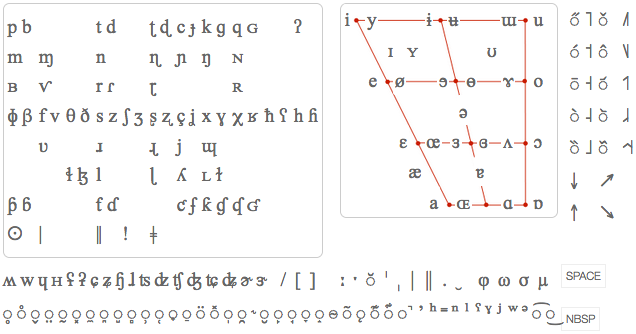
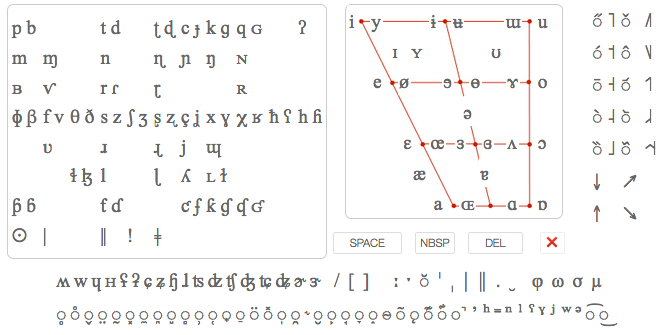
ipa, restyle space etc; add url generator; change example text; add del touches; centre selection area

diff --git a/ipa/index.html b/ipa/index.html
@@ -273,6 +273,14 @@
          <span class="c" style="position:absolute; left: 238px;" title="Low back vowel rounded">ɒ</span>
         </div>
       </div>
+      
+      <div style="margin-top:10px; border: 0;">
+      <span class="touch" title="Space" style="padding: 5px 20px;" dir="auto" onClick="add(' ');">SPACE</span>
+<span class="touch" title="No-break space" style="padding: 5px;" dir="auto" onClick="add('\u00A0');">NBSP</span>
+<span class="touch" title="Delete 1 character at end" style="padding: 5px 20px;" dir="auto" onClick="del();">DEL</span>
+<span class="touch delAll" title="Delete All" style="margin-right: 20px; margin-left:10px;" dir="auto" onClick="deleteAll();">❌</span>
+</div>
+      
         <!--img title="25CC: DOTTED CIRCLE" src="images/25CC.png" alt="◌" id="dottedcircle" /--></td>
       <td><!-- TONES -->
         <table id="tones">
@@ -327,8 +335,7 @@
     <tr>
       <td><div id="other2"> <span class="c" title="Voiceless labial velar plosive">&#x028D;</span> <span class="c" title="Voiced labial velar approximant">&#x0077;</span> <span class="c" title="Voiced labial palatal approximant">&#x0265;</span> <span class="c" title="Voiceless epiglottal fricative">&#x029C;</span> <span class="c" title="Voiced epiglottal fricative">&#x02A2;</span> <span class="c" title="Epiglottal plosive">&#x02A1;</span> <span class="c" title="Voiceless alveolo-palatal fricative">&#x0255;</span> <span class="c" title="Voiced alveolo-palatal fricative">&#x0291;</span> <span class="c" title="Simultaneous unvoiced postalveolar &amp; velar fricative">&#x0267;</span> <span class="c" title="Voiced alveolar lateral flap">&#x027A;</span> <span class="c" title="Voiceless dental affricate">&#x02A6;</span> <span class="c" title="Voiced dental affricate">&#x02A3;</span> <span class="c" title="Voiceless postalveolar affricate">&#x02A7;</span> <span class="c" title="Voiced postalveolar affricate">&#x02A4;</span> <span class="c" title="Voiceless alveolo-palatal affricate">&#x02A8;</span> <span class="c" title="Voiced alveolo-palatal affricate">&#x02A5;</span> <span class="c" title="Rhoticised schwa">&#x025A;</span> <span class="c" title="Rhoticised lower mid central vowel">&#x025D;</span></div></td>
       <td  class="bottomrighttop"><div><span class="c" style="padding-left:10px;" title="">&#x002F;</span> <span class="c" title="">&#x005B;</span> <span style="margin-right:20px;" class="c" title="">&#x005D;</span>  <span class="c" title="Long">&#x02D0;</span> <span class="c" title="Half-long">&#x02D1;</span> <span class="c" title="Extra short diacritic">&#x0306;</span> <span class="c" title="Primary stress">&#x02C8;</span> <span class="c" title="Secondary stress">&#x02CC;</span> <span class="c" title="Minor (foot) group">&#x007C;</span> <span class="c" title="Major (intonation) group">&#x2016;</span>  <span class="c" title="Syllable break">&#x002E;</span> <span class="c" title="Linking (absence of a break)">&#x203F;</span> <span class="c"  style="margin-left: 10px" title="Prosodic phrase">&#x03C6;</span> <span class="c" title="Prosodic word">&#x03C9;</span> <span class="c" title="Syllable">&#x03C3;</span> <span class="c" title="Mora">&#x03BC;</span></div></td>
-      <td rowspan="2" style="width: 6em;"><span onclick="add(' ');" class="spaceEtc">SPACE</span><br/><br/><span onclick="add('\u00A0');" class="spaceEtc">NBSP</span></td>
-    </tr>
+      </tr>
     <tr>
       <td colspan="2"><div> <span class="c" title="Voiceless diacritic">&#x0325;</span> <span class="c" title="Voiceless diacritic">&#x030A;</span> <span class="c" title="Voiced diacritic">&#x032C;</span> <span class="c" title="Breathy voiced diacritic">&#x0324;</span> <span class="c" title="Creaky voiced diacritic">&#x0330;</span> <span class="c" title="Frictionalised diacritic">&#x0353;</span> <span class="c" title="Linguolabial diacritic">&#x033C;</span> <span class="c" title="Dental diacritic">&#x032A;</span> <span class="c" title="Apical diacritic">&#x033A;</span> <span class="c" title="Laminal diacritic">&#x033B;</span> <span class="c" title="More rounded diacritic">&#x0339;</span> <span class="c" title="Less rounded diacritic">&#x031C;</span> <span class="c" title="Advanced diacritic">&#x031F;</span> <span class="c" title="Retracted diacritic">&#x0320;</span> <span class="c" title="Centralised diacritic">&#x0308;</span> <span class="c" title="Mid-centralised diacritic">&#x033D;</span> <span class="c" title="Syllabic diacritic">&#x0329;</span> <span class="c" title="Non-syllabic diacritic">&#x032F;</span> <span class="c" style="padding:0 3px;" title="Rhoticity diacritic">&#x02DE;</span> <span class="c" title="Derhoticised diacritic">&#x032E;</span> <span class="c" title="Retracted tongue root diacritic">&#x0319;</span> <span class="c" title="Advanced tongue root diacritic">&#x0318;</span> <span class="c" title="Lowered diacritic">&#x031E;</span> <span class="c" title="Raised diacritic">&#x031D;</span> <span class="c" title="Velarised or pharyngealised diacritic">&#x0334;</span> <span class="c" title="Nasalised diacritic">&#x0303;</span>  <span class="c" title="Alternate nasalised diacritic">&#x0328;</span> <span class="c" title="Denasalised diacritic">&#x034A;</span> <span class="c" title="Nasal emission">&#x034B;</span> <span class="c" title="No audible release diacritic">&#x031A;</span> <span class="c" style="padding:0 4px;" title="Ejective diacritic">&#x02BC;</span> <span class="c" title="Aspirated diacritic">&#x02B0;</span> <span class="c" title="Unaspirated diacritic">&#x02ED;</span> <span class="c" title="Nasal release">&#x207F;</span> <span class="c" style="padding:0 3px;" title="Lateral release">&#x02E1;</span> <span class="c" title="Pharyngealised diacritic">&#x02E4;</span> <span class="c" title="Velarised diacritic">&#x02E0;</span> <span class="c" style="padding:0 3px;" title="Palatalised diacritic">&#x02B2;</span> <span class="c" title="Labialised diacritic">&#x02B7;</span>  <span class="c" title="">&#x1D4A;</span> <span class="c" title="Upper ligature tie">&#x0361;</span> <span class="c" title="Lower ligature tie">&#x035C;</span></div></td>
     </tr>

diff --git a/ipa/help/index.html b/ipa/help/index.html
@@ -85,12 +85,21 @@ When working on an iPad or similar device, you should turn off<code class="kw" t
 
 
 
+<section id="buttons">
+  <h3 href="#buttons">Selection area</h3>
+  <p><img src="images/selection_area.png" alt=""/></p>
+  <p>Click on characters or buttons in this area to add them to the  text area above.</p>
+  <p> Many characters are arranged similarly to the standard IPA chart. The trill and tap or flap rows of the standard chart have been merged to save space. The same applies to the approximant and lateral approximant rows. Non-pulmonic symbols were also added to the last two rows of the table for the same reason.</p>
+  <p> Other characters are available below and to the right of the main charts.</p>
+</section>
+
+
+
 <section id="top_controls">
   <h3 href="#top_controls">Controls above the text area</h3>
       <p><img src="images/controls_above.png" alt=""/></p>
       <p>Controls above the input box allow you to run various operations on the text in the box. <strong>Most of them work on what you have selected</strong> within the box, or the whole box if nothing is selected.</p>
-      
-      <p><b class="leadin">Copy, select, delete (<img src="images/copy_etc.png" style="vertical-align:middle;" alt=""/>).</b>  The icons on the left above the input box allow you to copy the text to the clipboard, select the text or delete the text, respectively. </p>
+      <p><b class="leadin">Copy, select, delete, etc. (<img src="images/copy_etc.png" style="vertical-align:middle;" alt=""/>).</b> The icons on the left above the input box allow you (listing them from left to right) to copy the text to the clipboard, select the text,  delete it, generate a URL to share with others that will reproduce for them what you see in the text box, add some sample text to the text area, and open this help file.</p>
       <p><b class="leadin">Show codepoints.</b> Produces a list of the Unicode code points in the input box. You can usually follow a link from a code point item to more detailed information about that character.</p>
       <p><b class="leadin">Convert to escapes.</b> Opens a new window for the converter app, which shows various different ways of representing the text in the input box using escapes.</p>
     <p><b class="leadin">Make example.</b> This may be useful to speed up the creation of examples. You can create an example with four parts, delimited by /, in the following order: [1] Arabic text, [2] IPA transcription, [3] other transcription, [4] meaning. You don't need to add all four elements, but if you want to skip one in the middle of the sequence, use //.</p>
@@ -135,13 +144,9 @@ When working on an iPad or similar device, you should turn off<code class="kw" t
     <p><b class="leadin">Default.</b> Turns off all input aids and closes all panels.</p>
       <p><b class="leadin">Keyboard.</b> A subset of the characters in the default view are arranged as per the <a href="http://www.phon.ucl.ac.uk/resource/phonetics/">Unicode Phonetic Keyboard (UCL)</a> v1.01 designed by Mark Huckvale. On any given key, the left-to-right order of characters corresponds to normal, shift and altgr.</p>
 </section>
-<section id="buttons">
-  <h3 href="#buttons">Selection area</h3>
-  <p><img src="images/selection_area.png" alt=""/></p>
-  <p>Click on characters or buttons in this area to add them to the  text area above.</p>
-  <p> Many characters are arranged similarly to the standard IPA chart. The trill and tap or flap rows of the standard chart have been merged to save space. The same applies to the approximant and lateral approximant rows. Non-pulmonic symbols were also added to the last two rows of the table for the same reason.</p>
-  <p> Other characters are available below and to the right of the main charts.</p>
-</section>
+
+
+
 <section id="yellow_controls">
   <h3 href="#yellow_controls">Controls on the yellow background</h3>
     <p><img src="images/yellow_controls.png" alt=""/></p>

diff --git a/ipa/localstyle.css b/ipa/localstyle.css
@@ -32,7 +32,7 @@ span.c {
 	}
 */
 #kbd { 	
-	margin-left: 0; 
+	margin: auto; 
 	}
 #kbd table {
 	margin:0;
@@ -82,7 +82,7 @@ span.c {
 #vowels div { height: 38px; }
 #vowels span { background-color: white; padding: 2px; }
 #bottomphones td { padding: 0; margin: 0; }
-#bottomphones  { margin-bottom: 10px;   line-height: 1.6;}
+#bottomphones  { margin:auto; margin-bottom: 10px;   line-height: 1.6;}
 #bottomphones .bottomrighttop span { padding: 0 3px; }
 #other2 {  }
 #other2 img { padding: 0; margin: 0; }
@@ -91,9 +91,11 @@ span.c {
 	}
 #tones td { padding-left: 5px; }
 
+/*
 #alphabet table {
 	margin:0;
 	}
+*/
 table td {
 	text-align: left;
 	}
